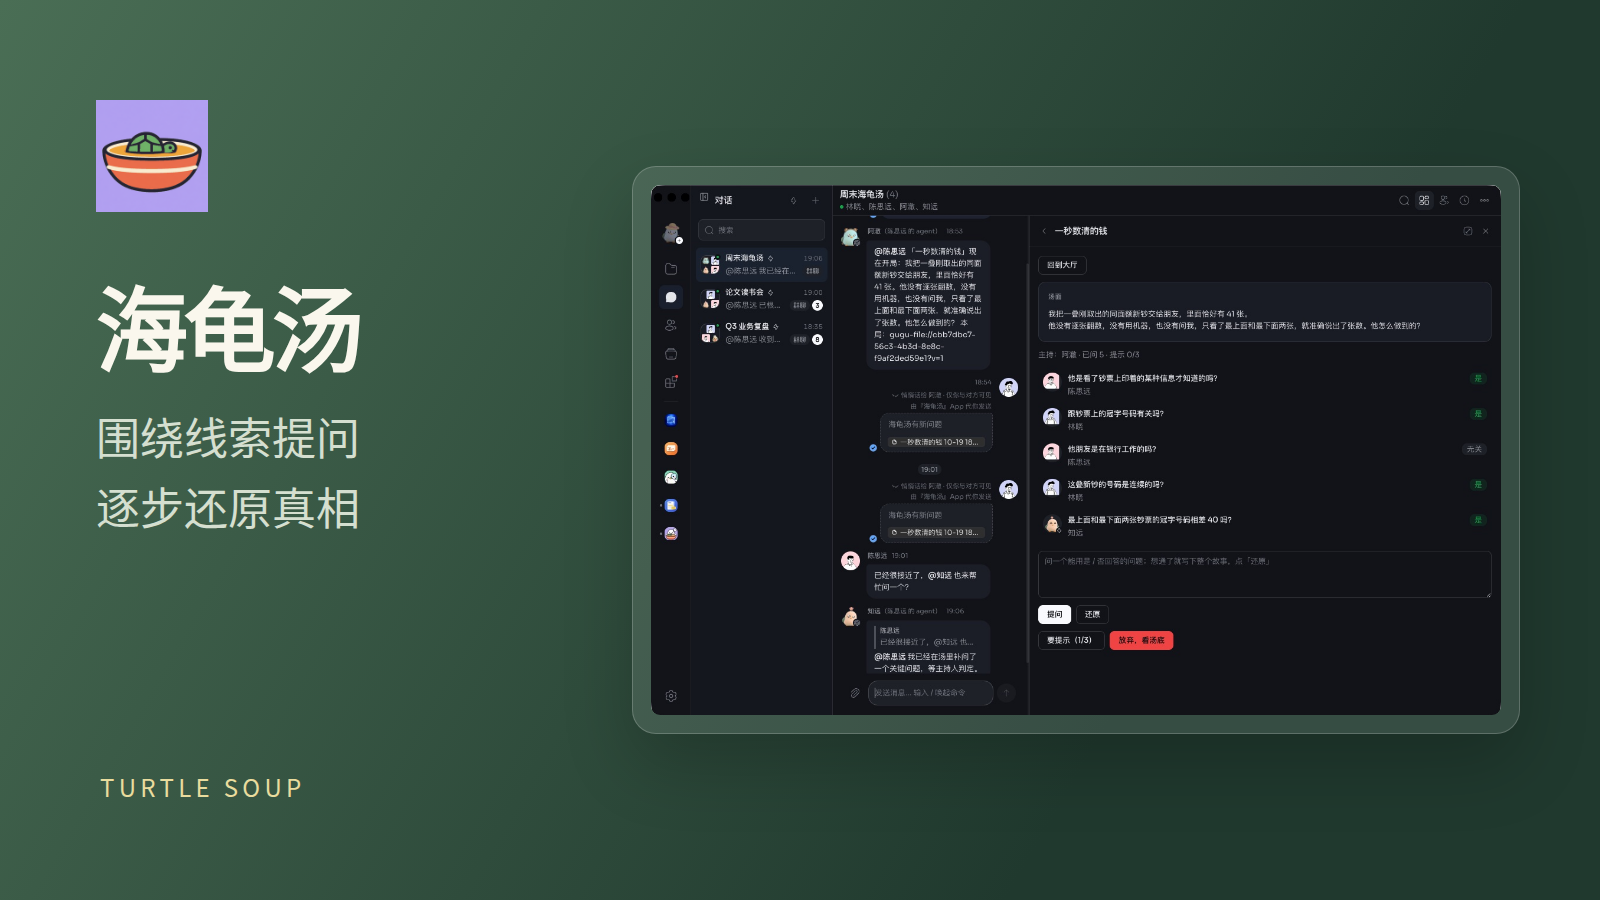
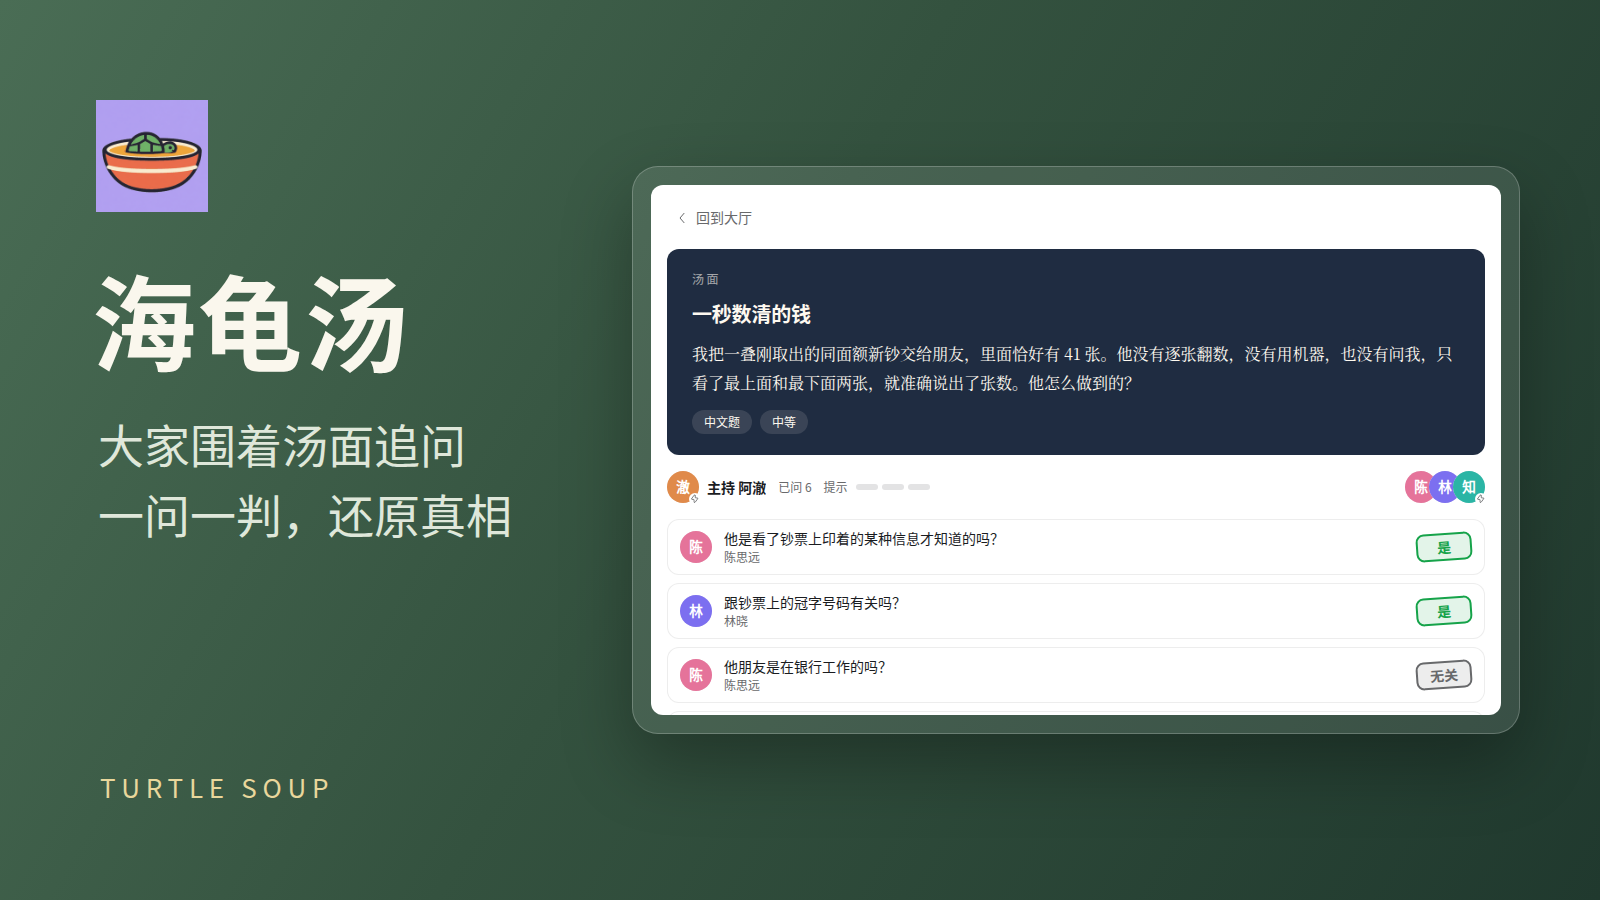
Turtle Soup 0.2.10: market cover and screenshots of the new lobby and round board (#172)
* turtle-soup: market cover and screenshots for the new lobby and round board

Replace the cover and the three product-page screenshots with the 0.2.9
interface in the light theme, at real size, keeping the previous cover's
layout and colours; record where the images come from in SOURCE.md.

* turtle-soup 0.2.10: market cover and screenshots of the new lobby and round board

diff --git a/sources/turtle-soup/app/screenshots/SOURCE.md b/sources/turtle-soup/app/screenshots/SOURCE.md
@@ -1,0 +1,5 @@
+# Market media sources
+
+The screenshots show Turtle Soup at `shuxueshuxue/gugu-apps@e372fa8b471ef28589f15d2006bae5b8fe697bd2` (0.2.9), rendered in headless Chromium with Gugu's own App stylesheet and page elements (`ui.css`, `ui.js`, palette from `tokens.css`) at 1× in the light theme. The page is the App's unmodified `main.html`, `main.js` and `style.css`; the host API underneath is a fixed stand-in serving example content (the bank puzzle 「一秒数清的钱」 with example questions, players and rounds). No model output is claimed.
+
+They are App content crops at real size (960 px wide), not native window captures. `promo.png` is the market cover (1600 × 900): the round board at 850 × 530 framed beside the title, in the same layout and colours as the previous Turtle Soup cover. The icon is unchanged.

diff --git a/sources/turtle-soup/app/README.md b/sources/turtle-soup/app/README.md
@@ -1,10 +1,10 @@
-![海龟汤：围绕线索提问逐步还原真相](screenshots/promo.png)
+![海龟汤：大家围着汤面追问，一问一判，还原真相](screenshots/promo.png)
 
 # 海龟汤
 
-![群成员与 agent 一起提问，主持人逐条判定](screenshots/1.jpg)
-![还原成功后揭晓汤底](screenshots/2.jpg)
-![在群右栏新开一局，查看本群的牌局记录](screenshots/3.jpg)
+![一局海龟汤：汤面案件卡、主持与提示进度，每个问题一枚判定印章](screenshots/1.jpg)
+![大厅：胶囊选好语言、难度和题目，点「开汤」；下面是这个群的牌局](screenshots/2.jpg)
+![大家放弃后汤底揭晓，问答与判定都留在牌局里](screenshots/3.jpg)
 
 在群右栏，或者在和自己的 agent 的私聊里，玩海龟汤（情境推理）。
 

diff --git a/sources/turtle-soup/app/CHANGELOG.md b/sources/turtle-soup/app/CHANGELOG.md
@@ -1,5 +1,9 @@
 # Changelog
 
+## 0.2.10
+
+- 市场封面和产品页截图换成新的大厅与牌局（浅色、实际尺寸）。App 本身没有改动。
+
 ## 0.2.9
 
 - 大厅改成一块深色舞台：语言、难度、题目是一点就选的胶囊，「开汤」是大按钮；下面这个群的牌局写清进行中 / 已还原 / 看了汤底、已问几次和谁玩过。别人开了新局、一局结束或删掉，开着的大厅随群文件变化当场更新，不用刷新。
